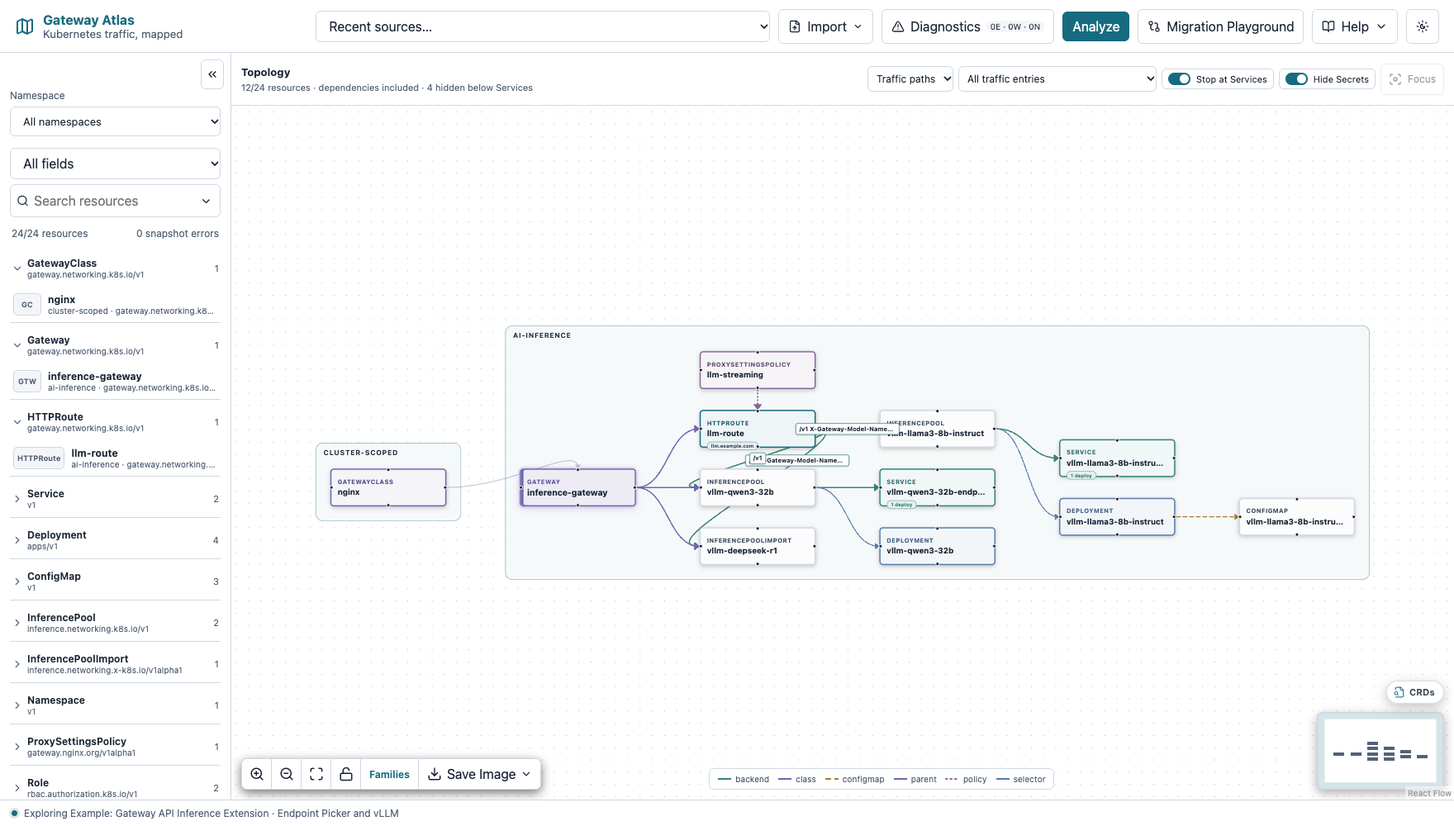
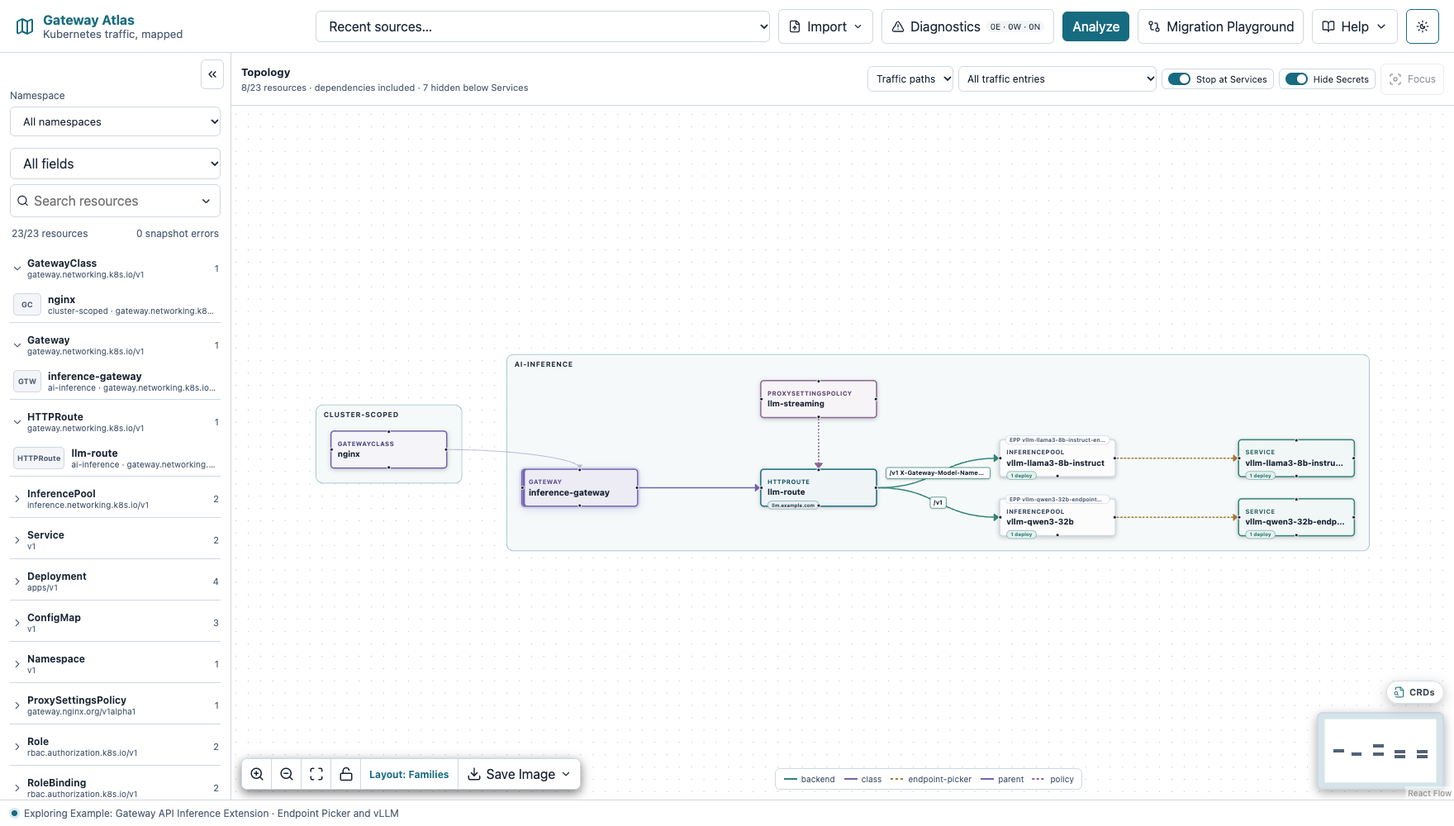
docs: Gateway Atlas 2.3.1 user guide
- docker run examples use ghcr.io/tareqaminul/gateway-atlas:latest
- Save snapshot, Load kubeconfig, scan warnings and clearer live-cluster errors
- Inference Extension presentation and Model servers card; refreshed inference
  screenshot without InferencePoolImport
- Families placement, Secret redaction for every import, BIG-IP Next 2.x groups

diff --git a/docs/user-guide.md b/docs/user-guide.md
@@ -1,11 +1,11 @@
 # Gateway Atlas user guide
 
-This guide covers every part of Gateway Atlas 2.3.0. It starts with running Atlas, then explores your configuration on the Canvas, reads a live cluster, plans a migration in the Migration Playground, and explains CRDs. You do not need to know how Atlas works inside. If you only want to get going, start with the [quick start](quick-start.md).
+This guide covers every part of Gateway Atlas 2.3.1. It starts with running Atlas, then explores your configuration on the Canvas, reads a live cluster, plans a migration in the Migration Playground, and explains CRDs. You do not need to know how Atlas works inside. If you only want to get going, start with the [quick start](quick-start.md).
 
 - [1. Run Gateway Atlas](#1-run-gateway-atlas)
 - [2. The workspace at a glance](#2-the-workspace-at-a-glance)
 - [3. Import options](#3-import-options)
-- [4. Connect to a live cluster (read-only)](#4-connect-to-a-live-cluster-read-only) — including [an OpenShift provisioner](#44-on-an-openshift-provisioner-docker-on-rhel)
+- [4. Connect to a live cluster (read-only)](#4-connect-to-a-live-cluster-read-only) — including [snapshots](#save-a-snapshot) and [an OpenShift provisioner](#44-on-an-openshift-provisioner-docker-on-rhel)
 - [5. The Canvas](#5-the-canvas)
 - [6. Search and narrowing down](#6-search-and-narrowing-down)
 - [7. Inspector and YAML viewer](#7-inspector-and-yaml-viewer)
@@ -29,11 +29,11 @@ This guide covers every part of Gateway Atlas 2.3.0. It starts with running Atla
 You need Docker: Docker Desktop on macOS, or Docker Engine on x86-64 Linux. The image is multi-architecture (`linux/arm64` and `linux/amd64`), so Docker picks the right variant automatically.
 
 ```bash
-docker pull ghcr.io/tareqaminul/gateway-atlas:2.3.0
+docker pull ghcr.io/tareqaminul/gateway-atlas:latest
 ```
 
 ```bash
-docker run --rm -p 127.0.0.1:8080:8080 ghcr.io/tareqaminul/gateway-atlas:2.3.0 serve --addr 0.0.0.0:8080
+docker run --rm -p 127.0.0.1:8080:8080 ghcr.io/tareqaminul/gateway-atlas:latest serve --addr 0.0.0.0:8080
 ```
 
 Open <http://127.0.0.1:8080>. Stop Atlas with `Ctrl+C` in that terminal.
@@ -41,7 +41,7 @@ Open <http://127.0.0.1:8080>. Stop Atlas with `Ctrl+C` in that terminal.
 - **Local only:** `-p 127.0.0.1:8080:8080` publishes the UI on your machine only. Keep the `127.0.0.1` part: Atlas has no login, so do not expose it on a shared network.
 - **Another port:** change the first number, for example `-p 127.0.0.1:9090:8080`, and open port 9090.
 - **Tags:**
-  - `:latest` follows the newest release; a version tag such as `:2.3.0` stays fixed.
+  - `:latest`, used throughout this guide, follows the newest release. Pin a version tag such as `:2.3.1` for a fixed, repeatable setup.
   - The older name `ghcr.io/tareqaminul/gateway-atlas-rpi-1` receives the same version tags for existing setups. Despite the name, it is the same image.
 - **Version:** **Help → About** shows the running release.
 
@@ -54,7 +54,7 @@ Open <http://127.0.0.1:8080>. Stop Atlas with `Ctrl+C` in that terminal.
 | **Header** | **Recent sources**, **Import**, **Diagnostics** (counts of errors, warnings and notes), **Analyze** (for pasted YAML), **Migration Playground**, **Help**, and the light/dark theme toggle. |
 | **Left panel** | **Namespace** filter, **Search**, the resource list grouped by kind, and **Paste YAML**. The **«** button hides the panel. |
 | **Topology bar** | A summary of what is shown (for example "16/26 resources · 4 hidden below Services"), the **Topology view**, the **Traffic entry** picker, **Stop at Services**, **Hide Secrets** and **Focus**. |
-| **Canvas** | The relationship map, with the toolbar (zoom, fit, lock, layout, **Save Image**), the legend, the minimap and the **CRDs** shortcut. |
+| **Canvas** | The relationship map, with the toolbar (zoom, fit, lock, layout, **Save snapshot** for live scans, **Save Image**), the legend, the minimap and the **CRDs** shortcut. |
 | **Inspector** | Opens on the right when you select a resource. |
 | **Status bar** | What you are looking at, for example "Exploring Example: Migration In-Progress". |
 
@@ -84,11 +84,13 @@ Expand **Paste YAML** at the bottom of the left panel and paste one or more docu
 
 Multi-document YAML and `kind: List` are both supported. Unknown kinds are kept as generic resources. Imported files are analyzed, never modified.
 
+**Secret values are removed.** If you paste or import a Secret with `data` or `stringData`, Atlas removes the values before analysis. After **Analyze**, the editor and **Recent sources** keep only the text without them, and the status bar says "Secret values removed from the YAML input". Your files on disk are not changed. Imports may be up to 32 MiB.
+
 > **Tip:** an Ingress-only or Gateway-only export is normal. A Service that is not in the import is drawn as a dashed placeholder and reported as a note, not as an error. The exception is a live-cluster scan, where the Service should exist.
 
 ## 4. Connect to a live cluster (read-only)
 
-Atlas reads a cluster through a kubeconfig on the machine that runs the server, never from the browser. Live access is off until you start the server with `--enable-live`.
+Atlas reads a cluster through a kubeconfig held by the server, never from the browser. Live access is off until you start the server with `--enable-live`. The kubeconfig can be mounted into the container ([4.1](#41-prepare-a-kubeconfig-for-the-container)) or loaded in the browser ([4.3](#43-scan)).
 
 ### 4.1 Prepare a kubeconfig for the container
 
@@ -117,7 +119,7 @@ Clusters reached through a cloud CLI login, such as the AKS, EKS or GKE `exec` p
 ```bash
 docker run --rm -p 127.0.0.1:8080:8080 \
   --mount type=bind,source="$HOME/.config/gateway-atlas",target=/home/nonroot/.kube,readonly \
-  ghcr.io/tareqaminul/gateway-atlas:2.3.0 serve --addr 0.0.0.0:8080 --enable-live
+  ghcr.io/tareqaminul/gateway-atlas:latest serve --addr 0.0.0.0:8080 --enable-live
 ```
 
 The directory must contain a file named `config`. `--mount` fails clearly if the source is missing, whereas `-v` would silently create an empty directory.
@@ -125,6 +127,7 @@ The directory must contain a file named `config`. `--mount` fails clearly if the
 ### 4.3 Scan
 
 1. Choose **Import → Kubernetes cluster**.
+   - No kubeconfig mounted? Select **Load kubeconfig** and pick a file. Atlas keeps it in the server's memory only, until **Forget** or a restart. It is never saved or sent back. Use a flattened, read-only one (`kubectl config view --raw --flatten`); `exec` login plugins and certificate file paths are rejected with a message saying why.
 2. Pick a **Context**. Atlas shows the **Target cluster** it will read.
 3. Optionally pick a **Namespace**; the default is **All permitted namespaces**.
 4. Select **Scan read-only**.
@@ -139,12 +142,23 @@ Atlas lists:
   - NGINX: `k8s.nginx.org`, `gateway.nginx.org`;
   - F5 WAF for NGINX (App Protect): `appprotect.f5.com`;
   - F5 CIS and IPAM: `cis.f5.com`, `fic.f5.com`;
-  - BIG-IP Next: `k8s.f5net.com`, `gateway.k8s.f5net.com`;
+  - BIG-IP Next: `k8s.f5net.com`, `gateway.k8s.f5net.com`, and for BIG-IP Next for Kubernetes 2.x `gateway.k8s.f5.com`, `k8s.f5.com`, `inference.k8s.f5.com`;
   - Inference Extension: `inference.networking.k8s.io`, `inference.networking.x-k8s.io`.
 
-Other Gateway API kinds, such as GRPCRoute or TLSRoute, IngressClasses and other workload kinds are not scanned yet; import them as files if you need them. If your RBAC denies something, the scan still completes and reports what it could not read. If the cluster cannot be reached, Atlas says so and offers **Try again**.
+Other Gateway API kinds, such as GRPCRoute or TLSRoute, IngressClasses and other workload kinds are not scanned yet; import them as files if you need them. If your RBAC denies something, the scan still completes. The status bar counts the scan warnings, and **Diagnostics** lists what could not be read. If the scan fails, Atlas says why (the name could not be resolved, a timeout, a TLS problem, credentials or permissions) and offers **Try again**.
 
 **What Atlas never does with a cluster:** create, update, patch, delete, apply, exec or port-forward. A read-only `ClusterRole` with `list` on these resources is enough. Secret values are removed on the server before analysis.
+
+#### Save a snapshot
+
+After a scan, **Save snapshot** in the Canvas toolbar saves what Atlas read as one YAML file in your downloads, such as `atlas-snapshot-<cluster>-all-<time>.yaml`. It makes no further call to the cluster.
+
+![Save snapshot beside Save Image in the Canvas toolbar](../images/save-snapshot.png)
+
+- **Import it later** with **Import → YAML files**, even without cluster access. The status bar reads "Exploring Snapshot: *cluster* · *scope* · taken *time*". A snapshot counts as cluster evidence, like a live scan: a missing Service is an error, and controller conditions are reported.
+- **What is in it:** every scanned resource with its status, sorted and in kubectl's field order. `managedFields` is left out. The header records the context, cluster, scope, time and any scan warnings. If the scan reported warnings or found nothing, Atlas asks first and marks the snapshot incomplete.
+- **Treat it as confidential.** Secret values are removed, but ConfigMap data, environment values, annotations, addresses and hostnames remain.
+- **Not a backup:** it holds only what Atlas reads, and it cannot be applied with `kubectl`.
 
 ### 4.4 On an OpenShift provisioner (Docker on RHEL)
 
@@ -182,7 +196,7 @@ rules:
 - apiGroups: [gateway.networking.k8s.io]
   resources: [gatewayclasses, gateways, httproutes, referencegrants]
   verbs: [get, list, watch]
-- apiGroups: [k8s.nginx.org, gateway.nginx.org, appprotect.f5.com, cis.f5.com, fic.f5.com, k8s.f5net.com, gateway.k8s.f5net.com, inference.networking.k8s.io, inference.networking.x-k8s.io]
+- apiGroups: [k8s.nginx.org, gateway.nginx.org, appprotect.f5.com, cis.f5.com, fic.f5.com, k8s.f5net.com, gateway.k8s.f5net.com, gateway.k8s.f5.com, k8s.f5.com, inference.k8s.f5.com, inference.networking.k8s.io, inference.networking.x-k8s.io]
   resources: ["*"]
   verbs: [get, list, watch]
 YAML
@@ -221,7 +235,7 @@ The token expires; run the `set-credentials` command again to renew it.
 **3. Run Atlas with the host's network.** Lab and provisioner API names often come from `/etc/hosts` or a local DNS server, sometimes on IPv6 only, and a container on Docker's default network cannot see them: the scan then waits and fails with "The cluster could not be reached". Host networking avoids that; binding to `127.0.0.1` keeps Atlas local:
 
 ```bash
-docker run -d --name gateway-atlas --restart unless-stopped --network host --user "$(id -u):$(id -g)" -v "$HOME/.config/gateway-atlas:/atlas-kube:ro,Z" -e KUBECONFIG=/atlas-kube/config ghcr.io/tareqaminul/gateway-atlas:2.3.0 serve --addr 127.0.0.1:8080 --enable-live
+docker run -d --name gateway-atlas --restart unless-stopped --network host --user "$(id -u):$(id -g)" -v "$HOME/.config/gateway-atlas:/atlas-kube:ro,Z" -e KUBECONFIG=/atlas-kube/config ghcr.io/tareqaminul/gateway-atlas:latest serve --addr 127.0.0.1:8080 --enable-live
 ```
 
 - `--user "$(id -u):$(id -g)"` lets the container read your owner-only kubeconfig; do not make the file readable by others.
@@ -231,7 +245,7 @@ docker run -d --name gateway-atlas --restart unless-stopped --network host --use
 To see the real cause of a connection problem, run one read-only scan from the command line; it prints the error:
 
 ```bash
-docker run --rm --network host --user "$(id -u):$(id -g)" -v "$HOME/.config/gateway-atlas:/atlas-kube:ro,Z" -e KUBECONFIG=/atlas-kube/config ghcr.io/tareqaminul/gateway-atlas:2.3.0 cluster scan --context ocp-readonly --namespace default
+docker run --rm --network host --user "$(id -u):$(id -g)" -v "$HOME/.config/gateway-atlas:/atlas-kube:ro,Z" -e KUBECONFIG=/atlas-kube/config ghcr.io/tareqaminul/gateway-atlas:latest cluster scan --context ocp-readonly --namespace default
 ```
 
 **4. Open it from your laptop** through an SSH tunnel, then browse to <http://127.0.0.1:8080>:
@@ -246,7 +260,7 @@ Atlas does not scan OpenShift Routes yet; it reads Ingresses, Gateway API resour
 
 The Canvas reads **left to right**:
 
-class or controller → traffic entry (Gateway, Ingress, VirtualServer) → routes → Services → workloads
+class or controller → traffic entry (Gateway, Ingress, VirtualServer, TransportServer) → routes → Services → workloads
 
 Policies, TLS and configuration sit in nearby lanes, and namespaces are drawn as tiles.
 
@@ -254,9 +268,12 @@ Policies, TLS and configuration sit in nearby lanes, and namespaces are drawn as
 
 ### 5.1 Layouts
 
-The **Families** button in the toolbar switches the layout to **Classic** and back, and your choice is remembered.
-- **Families** (default) gives each Gateway family one row, with its policies and configuration, and one band per controller.
-- **Classic** is the earlier namespace-tile layout.
+The layout button in the toolbar names the current layout (**Layout: Families** or **Layout: Classic**). Select it to switch; a short notice says what the other layout emphasises, and your choice is remembered.
+- **Families** (default) answers *where does traffic go?* Every namespace is drawn as rows, one per Gateway, Ingress, VirtualServer or TransportServer, with its policies and configuration, and namespaces are grouped into one band per controller. Atlas places related cards together:
+  - each GatewayClass tile sits beside and slightly above its Gateways, even when they share a namespace with another controller's Gateways;
+  - a Service several routes share sits to their right, between them, and a route's own Service sits level with it;
+  - a namespace reached from another one sits next to the card that links to it, or under it when a straight line would cross other cards.
+- **Classic** answers *what does each namespace hold?* with the earlier namespace-tile layout.
 
 Large imports stay readable. When a column would hold more than eight namespaces, Atlas wraps it into a grid shaped like the window.
 
@@ -275,6 +292,10 @@ Large imports stay readable. When a column would hold more than eight namespaces
 - Ingress canaries and VirtualServer splits.
 
 ![One HTTPRoute with a 90% default, a query-matched experiment, a header-matched 10% canary and a mirrored shadow backend](../images/search-select.png)
+
+**AI inference.** An InferencePool is drawn like a Service: it sits in the Service column as its route's backend, and **Stop at Services** collapses the model servers it selects. A note on the pool card names its **Endpoint Picker** (EPP), whose Service sits beside the pool on a dashed *endpoint-picker* line. With **Stop at Services** off, Pods fold into their Deployment ("2 pods"), and workloads that the same pools select share one **Model servers** card, so each pool draws one line instead of one per workload. The card is a grouping, not a Kubernetes resource; select it to see its members.
+
+![Four InferencePools over shared llm-d simulator model servers, each with its own Endpoint Picker](../images/model-servers.png)
 
 **Policy pills.** When more than two policies or filters attach to one resource, they collapse into **pills** above the card. Click the **+N** pill to see them all. Route policies sit in a lane above their route.
 
@@ -335,7 +356,7 @@ Select any card or list entry to open the **inspector**. You can resize it, or c
   - **At a glance:** the key facts, such as hostnames, parent Gateways, rules, backends and status;
   - **Identity:** namespace, source document and API group;
   - **Relationships:** every link in and out, with the field that creates it, for example `spec.rules[0].backendRefs[0]`.
-- **Yaml:** the original YAML, with line numbers and folding. The large `kubectl.kubernetes.io/last-applied-configuration` annotation is folded for you. **Copy YAML** copies it; the expand button opens a larger view.
+- **Yaml:** the original YAML, with line numbers and folding. The bulky `metadata.managedFields` and `kubectl.kubernetes.io/last-applied-configuration` are folded for you. **Copy YAML** copies it; the expand button opens a larger view.
 - **Warnings:** this resource's findings, with the field, an explanation and the evidence.
 
 ![Inspector · Details for an HTTPRoute](../images/inspector-details.png)
@@ -355,6 +376,8 @@ Select any card or list entry to open the **inspector**. You can resize it, or c
 | **Note** | Context, or a limitation of a partial import. | A Service that is not in the files. A hostname shared by several routes, kinds or namespaces. The IngressLink that NGINX Gateway Fabric creates for you. |
 
 ![Diagnostics for Gateway API - Broken References](../images/diagnostics.png)
+
+After a live scan, or when you open a snapshot, **Diagnostics** also lists the **scan warnings**: resources Atlas could not read, for example because RBAC denied them. The view is then incomplete.
 
 Static analysis does not prove controller acceptance, endpoint readiness, DNS or reachability.
 
@@ -380,9 +403,11 @@ Every bundled example is synthetic and safe to share. A few that show what the C
 
 ![BIG-IP Next beside Envoy Gateway](../images/example-bigip-next.png)
 
-**Gateway API Inference Extension · Endpoint Picker and vLLM**, shown here in the light theme. InferencePools with Endpoint Pickers route model traffic to vLLM servers.
+**Gateway API Inference Extension · Endpoint Picker and vLLM**, shown here in the light theme. An NGINX Gateway Fabric Gateway routes model traffic by header to two InferencePools, each with its own Endpoint Picker, in front of vLLM servers. It uses only what NGINX Gateway Fabric documents for the Inference Extension: InferencePool backends.
 
 ![Inference Extension in the light theme](../images/light-theme-inference.png)
+
+**Gateway API Inference Extension - Shared Model Servers (llm-d simulator).** Istio and NGINX Gateway Fabric Gateways in one namespace, four InferencePools with their Endpoint Pickers, and llm-d simulator model servers they share; see the picture in [5.2](#52-reading-cards-and-lines).
 
 ## 10. Migration Playground
 
@@ -568,7 +593,7 @@ After the acknowledgement you can **Copy Generated YAML**, **Download Draft YAML
 
 ![Before: the source Ingress and its annotations. After: the drafted Gateway and HTTPRoute](../images/draft-files.png)
 
-**Compare topology** draws the source snapshot and the proposed draft side by side, on two Canvases. A connected graph does not prove equivalent behaviour or a healthy deployment.
+**Compare topology** draws the source snapshot and the proposed draft side by side, on two Canvases. Each opens on its whole topology, and **Open full screen** on either tile shows that side alone, with a switch to the other. A connected graph does not prove equivalent behaviour or a healthy deployment.
 
 ![Before and after topology](../images/draft-compare.png)
 
@@ -587,7 +612,7 @@ Open **Help → Explore Supported CRDs**, or select the floating **CRDs** button
    - NGINX Gateway Fabric 2.8.0;
    - NGINX Ingress Controller 5.7.0;
    - F5 WAF for NGINX, including Policy Lifecycle Management;
-   - the Inference Extension;
+   - the Inference Extension (InferencePool);
    - F5 CIS and F5 IPAM;
    - common prerequisites such as cert-manager.
 2. **Version:** the storage version is preselected; deprecated versions are marked.
@@ -611,7 +636,7 @@ The catalog schemas are bundled with Atlas, so this works offline. F5 BIG-IP Clo
   - **Explore Supported CRDs**;
   - **About**, which shows the release and the CRD and API versions Atlas knows.
 - **Theme:** the sun/moon button switches between light and dark.
-- **Recent sources:** reloads an example, file set, URL or scan you used in this browser.
+- **Recent sources:** reloads an example, file set or URL you used in this browser. Imports over 2 MiB, such as large snapshots, are not kept; import the file again.
 
 ![The Help menu](../images/help-menu.png)
 
@@ -620,7 +645,7 @@ The catalog schemas are bundled with Atlas, so this works offline. F5 BIG-IP Clo
 The same binary has a command-line interface. With the container, mount your files read-only:
 
 ```bash
-docker run --rm -v "$PWD:/work:ro" ghcr.io/tareqaminul/gateway-atlas:2.3.0 validate /work/examples/missing-service.yaml
+docker run --rm -v "$PWD:/work:ro" ghcr.io/tareqaminul/gateway-atlas:latest validate /work/examples/missing-service.yaml
 ```
 
 | Command | Purpose |
@@ -639,7 +664,9 @@ docker run --rm -v "$PWD:/work:ro" ghcr.io/tareqaminul/gateway-atlas:2.3.0 valid
 | Symptom | What to do |
 | --- | --- |
 | The page does not load | Check that the container is running, and that the port in the URL matches the first number in `-p`. |
-| **Kubernetes cluster** is unavailable | Restart with `--enable-live` and a mounted kubeconfig ([section 4](#4-connect-to-a-live-cluster-read-only)). |
+| **Kubernetes cluster** is unavailable | Restart with `--enable-live` ([section 4](#4-connect-to-a-live-cluster-read-only)). Then mount a kubeconfig, or use **Load kubeconfig** in the dialog. |
+| The status bar counts scan warnings | Some resources could not be read, usually because of RBAC. **Diagnostics** lists them; grant `get, list, watch` on them, or accept a partial view. |
+| A snapshot will not import | Imports are limited to 32 MiB. Scan one namespace at a time for very large clusters. |
 | No contexts, or a kubeconfig error | The mounted folder must contain a regular, readable file named `config` at `/home/nonroot/.kube`. Recreate the container after changing the mount. |
 | "The cluster could not be reached" | Check network access and credentials. On Docker Desktop, point the copy at `kubernetes.docker.internal:6443` ([section 4.1](#41-prepare-a-kubeconfig-for-the-container)). On a provisioner whose API name comes from `/etc/hosts` or a local DNS server, use `--network host` ([section 4.4](#44-on-an-openshift-provisioner-docker-on-rhel)). |
 | Cloud cluster authentication fails | `exec` credential plugins are not in the image. Use a static token or certificate for a read-only service account. |
@@ -652,7 +679,11 @@ docker run --rm -v "$PWD:/work:ro" ghcr.io/tareqaminul/gateway-atlas:2.3.0 valid
 
 Atlas runs locally and sends your manifests nowhere.
 
-Before you share screenshots, reports, design records or exported YAML, review them for:
+Secret values (`data`, `stringData` and the copy kubectl keeps in an annotation) are removed from every import: live scans, files, pasted YAML and URLs.
+
+**Snapshots are confidential.** They hold what Atlas read from a cluster, including ConfigMap data, environment values, annotations, addresses and hostnames. Store them like other cluster exports.
+
+Before you share screenshots, reports, design records, snapshots or exported YAML, review them for:
 - private names and hosts;
 - IP addresses;
 - annotations;

diff --git a/docs/quick-start.md b/docs/quick-start.md
@@ -23,7 +23,7 @@ You do **not** need a cluster, an account or internet access after the image is 
 ## 2. Start Atlas
 
 ```bash
-docker run --rm -p 127.0.0.1:8080:8080 ghcr.io/tareqaminul/gateway-atlas:2.3.0 serve --addr 0.0.0.0:8080
+docker run --rm -p 127.0.0.1:8080:8080 ghcr.io/tareqaminul/gateway-atlas:latest serve --addr 0.0.0.0:8080
 ```
 
 Open <http://127.0.0.1:8080>.
@@ -32,7 +32,7 @@ Open <http://127.0.0.1:8080>.
 
 > **Keep `127.0.0.1` in the `-p` option.** Atlas has no login, so publish it on your own machine only. To use another port, change the first number, for example `-p 127.0.0.1:9090:8080`, and open port 9090.
 
-`ghcr.io/tareqaminul/gateway-atlas:latest` always points at the newest release. Use a version tag such as `2.3.0` when you want a fixed, repeatable setup.
+`latest` always points at the newest release. Use a version tag such as `:2.3.1` instead when you want a fixed, repeatable setup.
 
 ## 3. A five-minute tour
 
@@ -50,7 +50,7 @@ Start with **Migration In-Progress**.
 
 The **Canvas** reads left to right:
 
-class → traffic entry (Gateway, Ingress, VirtualServer) → routes → Services
+class → traffic entry (Gateway, Ingress, VirtualServer, TransportServer) → routes → Services
 
 Namespaces are drawn as tiles. Edge labels tell you what the traffic does, for example `/api · 50%`.
 
@@ -135,10 +135,14 @@ Atlas reads a cluster through a kubeconfig on your machine. It never reads it fr
 3. Start Atlas with the folder mounted read-only:
 
    ```bash
-   docker run --rm -p 127.0.0.1:8080:8080 --mount type=bind,source="$HOME/.config/gateway-atlas",target=/home/nonroot/.kube,readonly ghcr.io/tareqaminul/gateway-atlas:2.3.0 serve --addr 0.0.0.0:8080 --enable-live
+   docker run --rm -p 127.0.0.1:8080:8080 --mount type=bind,source="$HOME/.config/gateway-atlas",target=/home/nonroot/.kube,readonly ghcr.io/tareqaminul/gateway-atlas:latest serve --addr 0.0.0.0:8080 --enable-live
    ```
 
 4. Choose **Import → Kubernetes cluster**, pick a **Context** and optionally a **Namespace**, and select **Scan read-only**.
+
+No kubeconfig mounted? Start with `--enable-live` only, and use **Load kubeconfig** in the same dialog: Atlas keeps it in memory until **Forget** or a restart.
+
+To keep what you scanned, select **Save snapshot** in the Canvas toolbar. It saves a YAML file you can import later to look at the cluster offline. Treat it as confidential: Secret values are removed, but ConfigMap data and hostnames remain.
 
 ![Import from cluster: choose a context and a namespace, then scan read-only](../images/live-cluster.png)
 
@@ -170,7 +174,7 @@ Try the synthetic files in this repository's [examples](../examples/) folder.
 | NGINX Ingress Controller Ingresses and CRDs | **NGINX Ingress Controller with Ingresses** / **with CRDs** |
 | NGF policies as pills | **NGF · rate, body, proxy, upstream, access & tracing** |
 | F5 WAF for NGINX with Policy Lifecycle Management | **NGF · WAF (Policy Source Type - PLM)** |
-| AI traffic | **Gateway API Inference Extension · Endpoint Picker and vLLM** and **NGF · AI Guardrails Integration** |
+| AI traffic | **Gateway API Inference Extension · Endpoint Picker and vLLM**, **Gateway API Inference Extension - Shared Model Servers (llm-d simulator)** and **NGF · AI Guardrails Integration** |
 | BIG-IP in front of NGF | **NGF · External LB Integration (BIG-IP CIS, IPAM, GatewayLink)** |
 | A migration to plan | **Playground · retail platform (real-world case)** or any other **Playground ·** example |
 | BIG-IP Next for Kubernetes | **BIG-IP Next · BNK beside Envoy (data-plane comparison)** |

diff --git a/README.md b/README.md
@@ -4,7 +4,7 @@
 
 ![The Gateway Atlas Canvas: a migration in progress, with a Gateway API route splitting traffic 50/50 while legacy Ingress and VirtualServer resources still serve the same hosts](images/canvas-hero.png)
 
-This repository is for **Gateway Atlas users**. It has the guides, a few example manifests, and the forms for reporting issues and feedback. Gateway Atlas is in an open **preview**; the current release is **2.3.0**.
+This repository is for **Gateway Atlas users**. It has the guides, a few example manifests, and the forms for reporting issues and feedback. Gateway Atlas is in an open **preview**; the current release is **2.3.1**.
 
 **New here?** Read the [Quick start](docs/quick-start.md): you can be exploring in about five minutes.
 
@@ -51,19 +51,30 @@ It covers:
 You need Docker: Docker Desktop on macOS, or Docker Engine on x86-64 Linux.
 
 ```bash
-docker run --rm -p 127.0.0.1:8080:8080 ghcr.io/tareqaminul/gateway-atlas:2.3.0 serve --addr 0.0.0.0:8080
+docker run --rm -p 127.0.0.1:8080:8080 ghcr.io/tareqaminul/gateway-atlas:latest serve --addr 0.0.0.0:8080
 ```
+
+`latest` follows the newest release; pin a version tag such as `:2.3.1` for a fixed setup.
 
 1. Open <http://127.0.0.1:8080>.
 2. Choose **Import → Bundled example** and pick any example.
 
 To read a live cluster, see [Quick start · with a live cluster](docs/quick-start.md#4-optional-connect-a-live-cluster-read-only).
 
+## What's new in 2.3.1
+
+- **Save snapshot:** keep a live scan as a YAML file and analyse it offline later, with its scan time and warnings.
+- **Load kubeconfig** in the cluster dialog, kept in memory only; clearer live-cluster errors; scan warnings in **Diagnostics**.
+- **Inference Extension:** InferencePools read like Services, with the Endpoint Picker beside each pool and shared model servers on one card.
+- **Canvas:** class tiles, shared Services and linked namespaces sit next to what they connect; TransportServer heads its row.
+- **Secrets:** values are removed from every import, including pasted YAML.
+- **BIG-IP Next for Kubernetes 2.x** resources are discovered and linked.
+
 ## Design principles
 
 - **Local-first:** it runs on your machine, and your manifests are not sent to any service.
 - **Read-only:** live cluster access is opt-in and only lists resources. Atlas has no code to create, update, delete, apply or exec anything.
-- **No Secret data:** Kubernetes Secret `data` and `stringData` are removed before analysis; only names and types are shown.
+- **No Secret data:** Kubernetes Secret `data` and `stringData` are removed before analysis, from every source, including pasted YAML; only names and types are shown.
 - **Honest about limits:**
   - Static analysis is labelled as static.
   - Approximate or unsupported migration behaviour is reported, never silently dropped.
